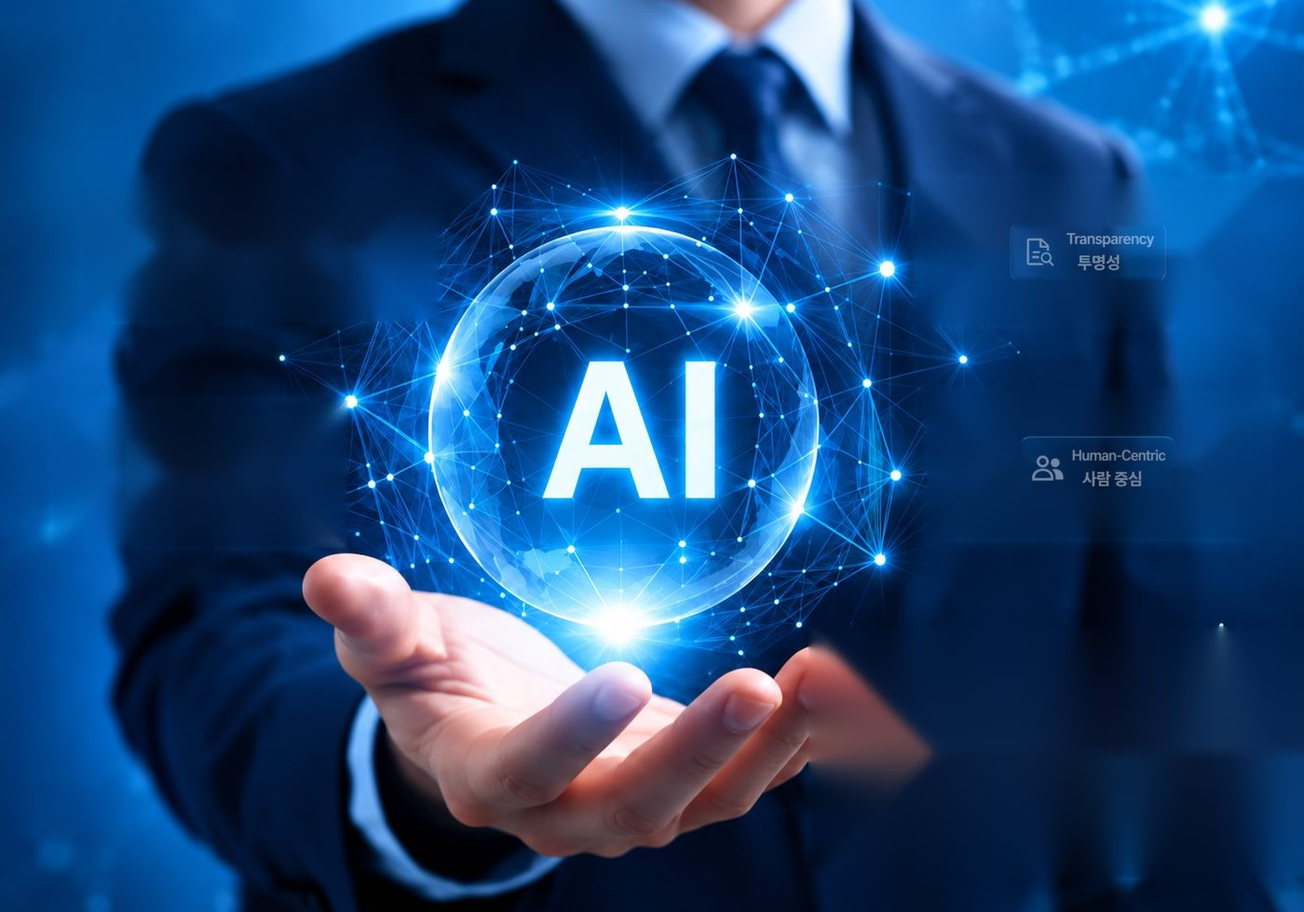
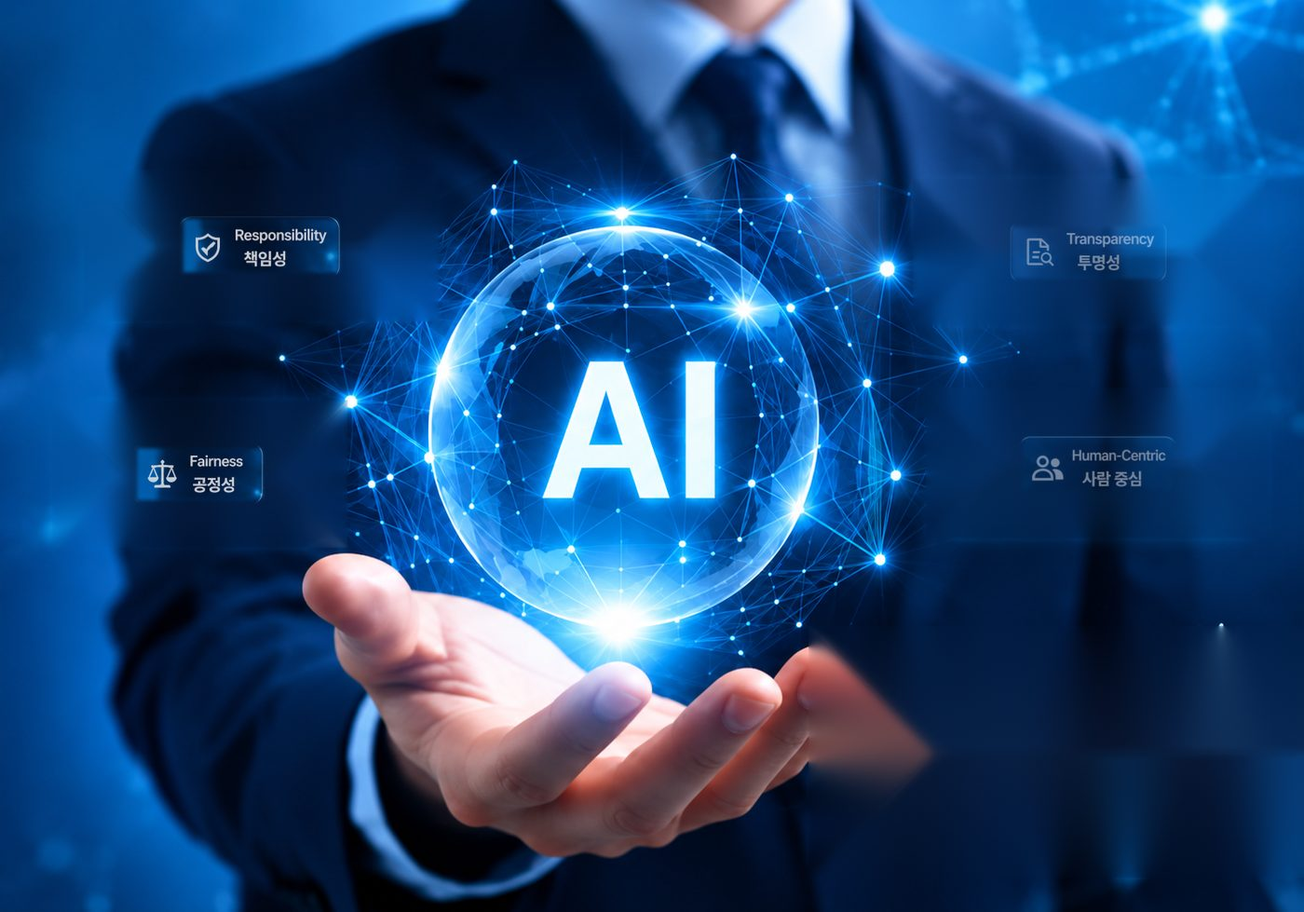
히어로 핵심가치 칩 원복: 이미지를 어제 원본(0739a9b) 그대로, HTML 칩·CSS 삭제 (사용자 지시: 위치·배경이 어색해 이전 버전으로)

Changed region(s): [[0.1229, 0.2451, 0.2764, 0.3064], [0.0921, 0.4903, 0.215, 0.5516]]

diff --git a/quiz/index.html b/quiz/index.html
@@ -31,7 +31,7 @@
 <link rel="stylesheet" as="style" crossorigin
   href="https://cdn.jsdelivr.net/gh/orioncactus/pretendard@v1.3.9/dist/web/variable/pretendardvariable-dynamic-subset.min.css">
 <link href="https://fonts.googleapis.com/css2?family=Archivo:wght@700;800&family=Caveat:wght@600&family=Noto+Serif+KR:wght@600;700;900&display=swap" rel="stylesheet">
-<link rel="stylesheet" href="/assets/css/style.css?v=4a512b798a">
+<link rel="stylesheet" href="/assets/css/style.css?v=f5e4e55637">
 <script>document.documentElement.className+=' js';</script>
 <script type="application/ld+json">
 {"@context": "https://schema.org", "@type": "BreadcrumbList", "itemListElement": [
@@ -196,7 +196,7 @@
       </div>
     </div>
   </footer>
-  <script src="/assets/js/main.js?v=4a512b798a"></script>
+  <script src="/assets/js/main.js?v=f5e4e55637"></script>
   <script>
   (function(){
     var Q=[{"t": "AI 활용 표기", "q": "생성형 AI로 초안을 쓴 보고서를 상사나 고객에게 제출하려 합니다.", "o": ["초안만 AI가 썼고 최종 문장은 직접 다듬었으므로 별도 표기는 하지 않는다", "AI를 썼다고 밝히면 평가가 불리해지므로 검증만 꼼꼼히 한다", "사실관계와 출처를 검증한 뒤, 조직 기준에 따라 AI 활용 범위를 표기한다"], "s": [1, 0, 2], "e": "결과물의 책임은 사람에게 있습니다. 검증과 표기는 한 쌍이며, 어느 한쪽만 해도 나중에 신뢰의 문제가 됩니다."}, {"t": "입력 정보 보호", "q": "회의록 요약을 위해 외부 AI 서비스에 회의 녹취 전체를 넣으려 합니다.", "o": ["조직이 승인한 도구인지 확인하고, 이름과 기밀, 개인정보를 지운 뒤 넣는다", "학습에 쓰지 않는다고 명시된 유료 요금제이므로 그대로 넣는다", "회사명과 참석자 직함만 가리고 나머지는 그대로 넣는다"], "s": [2, 0, 1], "e": "사고는 대부분 출력이 아니라 입력 단계에서 납니다. 약관의 학습 여부와 별개로, 무엇을 넣어도 되는지는 조직이 정해 두어야 합니다."}, {"t": "출처 검증", "q": "AI가 알려준 통계 수치를 보고서에 인용하려 합니다.", "o": ["AI가 출처 링크까지 제시했으므로 그 링크를 각주로 단다", "원 출처 문서를 직접 찾아 수치를 확인하고, 그 출처를 표기한다", "다른 AI에게 한 번 더 물어 같은 답이 나오면 인용한다"], "s": [0, 2, 1], "e": "생성형 AI는 그럴듯한 숫자와 존재하지 않는 출처를 함께 만들어냅니다. 교차 질문으로는 걸러지지 않고, 원문 확인만이 방법입니다."}, {"t": "저작권 · 초상권", "q": "AI 이미지 생성으로 홍보물을 만들려 합니다.", "o": ["상업적 이용이 허용된 서비스로 만들었으므로 그대로 쓴다", "실존 인물과 닮지 않았는지만 확인하면 된다", "약관이 주는 권리 범위와 인물 · 상표 유사성을 확인하고, 생성 이미지 표기 기준을 따른다"], "s": [1, 0, 2], "e": "서비스 약관이 허용하는 범위와 결과물이 다른 권리를 침해하는지는 별개의 문제입니다. 확인할 것이 하나가 아니라 셋입니다."}, {"t": "조직의 기준", "q": "팀원이 AI 활용을 알리지 않고 제출한 결과물에서 오류가 발견됐습니다.", "o": ["팀의 AI 활용 · 검증 기준을 문서로 만들어 공유하고, 제출 전 확인 절차를 둔다", "재발 방지를 위해 팀 내 AI 사용을 당분간 금지한다", "해당 팀원에게 주의를 주고 다음부터는 알리도록 한다"], "s": [2, 0, 1], "e": "금지는 알리지 않는 사용을 늘릴 뿐이고, 개인 주의는 다음 사람에게 반복됩니다. 기준을 만들어 공유하는 사람이 조직의 위험을 줄입니다."}, {"t": "공정성", "q": "AI 채용 평가 도구가 특정 집단에 불리한 결과를 내는 것으로 보입니다.", "o": ["집단별 합격선을 조정해 결과의 균형을 맞춘다", "편향 가능성을 점검하고 사람이 최종 판단하며, 판단 근거를 기록으로 남긴다", "도구 제공사에 문의하고 회신이 올 때까지 기존대로 운영한다"], "s": [1, 2, 0], "e": "결과만 손대면 원인은 그대로 남습니다. 사람의 최종 판단과 기록은 고영향 영역에서 특히 중요합니다."}, {"t": "AI기본법", "q": "2026년 1월 시행된 AI기본법, 우리 조직과 어떤 관계일까요?", "o": ["AI를 직접 개발하지 않으므로 우리 조직과는 관계가 없다", "AI를 활용하는 기업과 기관, 학교에도 표시 · 고지 같은 의무가 생긴다", "이름은 들어봤지만 우리 업무와 어떻게 연결되는지는 확인하지 못했다"], "s": [0, 2, 1], "e": "의무는 개발하는 쪽에만 생기지 않았습니다. 활용하는 조직에도 적용된다는 사실을 아는 것이 출발점입니다."}], R=[{"min": 12, "name": "AI 윤리 리더형", "lead": "이미 기준을 갖고 판단하고 있습니다.", "desc": "대부분의 장면에서 책임 있는 판단을 하고 있습니다. 이제 필요한 것은 그 판단력을 조직 밖에서도 인정받는 증명입니다. AI윤리전문가 양성과정은 지금의 감각을 한국AI윤리위원회 공식 이수증과 홈페이지 공식 등록로 남기고, 전문위원 등록과 전문강사·자문 활동으로 넓히는 가장 빠른 길입니다."}, {"min": 7, "name": "실무 감각형", "lead": "큰 방향은 맞지만, 상황마다 흔들리는 지점이 있습니다.", "desc": "판단의 방향은 옳은데 기준이 정리되어 있지 않아 장면마다 결과가 달라집니다. 체계적으로 한 번 정리하면 판단이 빨라지고, 그 기준을 이수증으로 남길 수 있습니다. AI윤리전문가 양성과정이 정확히 그 역할을 합니다."}, {"min": 0, "name": "출발선형", "lead": "AI를 활용하고는 있지만, 기준은 아직입니다.", "desc": "AI를 이미 업무와 학습에 활용하고 있다면 기준이 없는 상태가 가장 위험합니다. 반대로 말하면 지금이 가장 좋은 출발점입니다. 위원회 표준교재로 핵심 원칙과 안전 수칙부터 갖추고, 온라인 이수 평가로 증명하세요."}];

diff --git a/exam/index.html b/exam/index.html
@@ -31,7 +31,7 @@
 <link rel="stylesheet" as="style" crossorigin
   href="https://cdn.jsdelivr.net/gh/orioncactus/pretendard@v1.3.9/dist/web/variable/pretendardvariable-dynamic-subset.min.css">
 <link href="https://fonts.googleapis.com/css2?family=Archivo:wght@700;800&family=Caveat:wght@600&family=Noto+Serif+KR:wght@600;700;900&display=swap" rel="stylesheet">
-<link rel="stylesheet" href="/assets/css/style.css?v=4a512b798a">
+<link rel="stylesheet" href="/assets/css/style.css?v=f5e4e55637">
 <script>document.documentElement.className+=' js';</script>
 <script type="application/ld+json">
 {"@context": "https://schema.org", "@type": "BreadcrumbList", "itemListElement": [
@@ -39,7 +39,7 @@
     {"@type": "ListItem", "position": 2, "name": "평가응시", "item": "https://kaiec.kr/exam/"}
   ]}
 </script>
-<link rel="stylesheet" href="/assets/css/exam.css?v=4a512b798a">
+<link rel="stylesheet" href="/assets/css/exam.css?v=f5e4e55637">
 </head>
 <body>
   <header class="site-header">
@@ -203,9 +203,9 @@
       </div>
     </div>
   </footer>
-  <script src="/assets/js/main.js?v=4a512b798a"></script>
+  <script src="/assets/js/main.js?v=f5e4e55637"></script>
   <script>window.KAIEC_EXAM={api:"https://script.google.com/macros/s/AKfycbzgPS8uXz2Xqjfy4PxtFOIbBV31GqHwxYc4ZT12F8zrQkFKQAG0v96UGy8Yg2U2b4MYsQ/exec",windowDays:30,email:"contact@kaiec.kr",unified:true,payBasic:"https://skkc.co.kr/shop_view?idx=26",payAdv:"",materials:[{"no":"00","title":"이수 평가 응시 안내","meta":"13쪽 · 출제 기준표 · 7일 학습 플랜","icon":"clipboard-list","mb":0.2},{"no":"01","title":"『핵심이론』 표준교재","meta":"232쪽 · 9개 장 · 부록 4종","icon":"book-open","mb":82},{"no":"02","title":"실전 모의고사 2회분","meta":"31쪽 · 2회 × 40문항 · OMR 답안지","icon":"pen-line","mb":7.5},{"no":"03","title":"정답 및 해설 별책","meta":"20쪽 · 80문항 해설 · 근거 절 표시","icon":"file-check","mb":5.6},{"no":"04","title":"『실무 도구집』","meta":"76쪽 · 실무 양식 13종","icon":"file-text","mb":12.6}],courses:{"AI윤리전문가 양성과정":{total:40,minutes:60,point:2.5,passScore:70},"기본과정":{total:40,minutes:60,point:2.5,passScore:70},"심화과정":{total:50,minutes:75,point:2,passScore:70}}};</script>
   <script>window.KAIEC_EXAM_DEMO={"minutes":5,"questions":[{"n":1,"area":"II","areaName":"핵심 쟁점과 생성형 AI 활용 윤리","stem":"생성형 AI를 활용해 초안을 작성한 보고서를 고객사에 제출하려 합니다. 가장 적절한 조치는?","underline":[],"box":"","bogi":[],"options":["AI가 작성했으므로 별도 검토 없이 제출한다","인용과 수치의 출처를 검증하고, 조직 기준에 따라 AI 활용 여부를 표기한다","AI 활용 사실은 밝히지 않는 것이 안전하다","고객사가 묻기 전까지는 어떤 조치도 필요 없다"]},{"n":2,"area":"IV","areaName":"AI 윤리 위험 사례 분석","stem":"채용 서류를 자동으로 걸러 주는 AI를 도입하려 합니다. 도입 전에 반드시 점검해야 할 것은?","underline":[],"box":"","bogi":[],"options":["처리 속도가 충분히 빠른지","특정 성별·연령·출신에 불리하게 작동하는 편향이 없는지와 결정에 대한 설명 가능성","경쟁사도 같은 도구를 도입했는지","지원자에게 알리지 않아도 되는지"]},{"n":3,"area":"III","areaName":"국내외 AI 법제","stem":"2026년 1월 시행된 AI기본법에 대한 설명으로 옳은 것은?","underline":[],"box":"","bogi":[],"options":["AI를 개발하는 기업에만 적용된다","생성형 AI 산출물의 표시·고지 등 활용 단계의 의무도 포함한다","윤리 권고일 뿐 법적 의무는 없다","해외 기업과는 무관한 국내 지침이다"]},{"n":4,"area":"V","areaName":"거버넌스 · 영향평가 · 조직 실무","stem":"다음 사례에 대한 판단으로 옳지 않은 것은?","underline":["않은"],"box":"A기업은 고객 상담에 생성형 AI 챗봇을 도입하려 한다.\n상담 과정에서 고객의 이름·연락처·주문 내역이 함께 입력된다.\n담당자는 출시 일정을 이유로 별도 검토 없이 기본 설정을 그대로 적용하려 한다.","bogi":[],"options":["입력되는 개인정보의 수집·이용 범위를 먼저 확인해야 한다","고객에게 AI 챗봇과 대화하고 있다는 사실을 알리는 것이 바람직하다","출시 일정이 급하면 개인정보 검토는 출시 이후로 미루어도 된다","상담 내용을 AI 학습에 활용하려면 고지와 동의 절차를 먼저 검토해야 한다"]},{"n":5,"area":"II","areaName":"핵심 쟁점과 생성형 AI 활용 윤리","stem":"생성형 AI 산출물의 책임 있는 활용에 대한 설명으로 옳은 것만을 〈보기〉에서 있는 대로 고른 것은?","underline":[],"box":"","bogi":[{"k":"ㄱ","t":"AI가 제시한 통계와 인용은 원 출처를 확인한 뒤 사용한다."},{"k":"ㄴ","t":"AI가 만든 결과물에 대한 책임은 AI 서비스 제공자에게만 있다."},{"k":"ㄷ","t":"조직의 기준에 따라 AI 활용 사실을 표기한다."},{"k":"ㄹ","t":"개인정보나 기밀이 담긴 자료는 조직이 승인한 도구에서만 처리한다."}],"options":["ㄱ, ㄴ","ㄱ, ㄷ","ㄴ, ㄹ","ㄱ, ㄷ, ㄹ"]}],"key":[2,2,2,3,4]};</script>
-  <script src="/assets/js/exam.js?v=4a512b798a"></script>
+  <script src="/assets/js/exam.js?v=f5e4e55637"></script>
 </body>
 </html>

diff --git a/index.html b/index.html
@@ -31,7 +31,7 @@
 <link rel="stylesheet" as="style" crossorigin
   href="https://cdn.jsdelivr.net/gh/orioncactus/pretendard@v1.3.9/dist/web/variable/pretendardvariable-dynamic-subset.min.css">
 <link href="https://fonts.googleapis.com/css2?family=Archivo:wght@700;800&family=Caveat:wght@600&family=Noto+Serif+KR:wght@600;700;900&display=swap" rel="stylesheet">
-<link rel="stylesheet" href="/assets/css/style.css?v=4a512b798a">
+<link rel="stylesheet" href="/assets/css/style.css?v=f5e4e55637">
 <script>document.documentElement.className+=' js';</script>
 <link rel="preload" as="image" href="/assets/img/hero-ai.jpg" fetchpriority="high">
 <script type="application/ld+json">
@@ -138,12 +138,8 @@
         <p>AI 윤리 교육, 연구, 캠페인, AI윤리전문가 양성 및 국내외 협력 활동을 추진합니다.</p>
 
         <div class="ai-visual">
-            <img src="/assets/img/hero-ai.jpg" alt="AI를 손 위에 올린 모습. 한국AI윤리위원회의 AI 윤리 핵심가치 (투명성 · 사람 중심, 왼쪽에 책임성 · 공정성)">
+            <img src="/assets/img/hero-ai.jpg" alt="Responsible AI, Better Tomorrow. 한국AI윤리위원회의 AI 윤리 핵심가치 (책임성 · 투명성 · 공정성 · 사람 중심)">
           </div>
-          <ul class="ai-values" aria-label="AI 윤리 핵심가치 (책임성 · 공정성)">
-            <li class="v-resp"><svg xmlns="http://www.w3.org/2000/svg" width="24" height="24" viewBox="0 0 24 24" fill="none" stroke="currentColor" stroke-width="2" stroke-linecap="round" stroke-linejoin="round" aria-hidden="true"><path d="M20 13c0 5-3.5 7.5-7.66 8.95a1 1 0 0 1-.67-.01C7.5 20.5 4 18 4 13V6a1 1 0 0 1 1-1c2 0 4.5-1.2 6.24-2.72a1.17 1.17 0 0 1 1.52 0C14.51 3.81 17 5 19 5a1 1 0 0 1 1 1z" /> <path d="m9 12 2 2 4-4" /></svg><span><small>Responsibility</small><b>책임성</b></span></li>
-            <li class="v-fair"><svg xmlns="http://www.w3.org/2000/svg" width="24" height="24" viewBox="0 0 24 24" fill="none" stroke="currentColor" stroke-width="2" stroke-linecap="round" stroke-linejoin="round" aria-hidden="true"><path d="M12 3v18" /> <path d="m19 8 3 8a5 5 0 0 1-6 0zV7" /> <path d="M3 7h1a17 17 0 0 0 8-2 17 17 0 0 0 8 2h1" /> <path d="m5 8 3 8a5 5 0 0 1-6 0zV7" /> <path d="M7 21h10" /></svg><span><small>Fairness</small><b>공정성</b></span></li>
-          </ul>
 
           <div class="hero-bottom">
           <div class="hero-ctas">
@@ -515,6 +511,6 @@
       </div>
     </div>
   </footer>
-  <script src="/assets/js/main.js?v=4a512b798a"></script>
+  <script src="/assets/js/main.js?v=f5e4e55637"></script>
 </body>
 </html>

diff --git a/assets/css/style.css b/assets/css/style.css
@@ -702,21 +702,7 @@ table.tbl tr:hover td{background:#FCFDFF}
   background:linear-gradient(90deg,rgba(8,17,36,.92) 6%,rgba(8,17,36,.62) 32%,rgba(9,20,42,.34) 48%,rgba(10,22,40,0) 64%),
              rgba(10,22,40,.10)}
 .hero-inner > *:not(.ai-visual){position:relative;z-index:1}
-/* AI 윤리 핵심가치 칩 (2026.09.22): 오른쪽 두 칩(투명성 · 사람 중심)은 히어로 이미지에 원래 박힌 그대로 두고,
-   이미지 왼쪽에 있어 마스크·오버레이·제목에 가려 흐리던 책임성 · 공정성 두 칩만 이미지에서 지운 뒤 HTML 로 같은 자리에 다시 그림.
-   오른쪽 칩과 같은 크기 · 같은 투명도로 맞춤(렌더 화면 측정: 오른쪽 칩 글자 최고 밝기 115~135/255 → 흰 글자 50%대, 테두리 10%). .ai-visual 과 같은 틀 안에서 % 로 배치 */
-.hero-inner > .ai-values{position:absolute;top:0;bottom:0;right:calc(50% - 50vw);width:min(60vw,780px);margin:0;padding:0;list-style:none;z-index:1;pointer-events:none}
-.ai-values li{position:absolute;display:flex;align-items:center;gap:6px;padding:4px 9px 4px 7px;border-radius:7px;
-  background:rgba(255,255,255,.035);border:1px solid rgba(255,255,255,.10);backdrop-filter:blur(4px);-webkit-backdrop-filter:blur(4px);
-  color:#fff;white-space:nowrap}
-.ai-values .v-resp{left:13.5%;top:20%}
-.ai-values .v-fair{left:14.5%;top:61%}
-.ai-values li svg{width:15px;height:15px;color:rgba(255,255,255,.44);flex-shrink:0}
-.ai-values li span{display:flex;flex-direction:column;line-height:1.15}
-.ai-values li small{font-size:9px;font-weight:500;letter-spacing:.02em;color:rgba(255,255,255,.46)}
-.ai-values li b{font-size:11px;font-weight:600;letter-spacing:-.01em;color:rgba(255,255,255,.56);margin-top:1px}
-/* 1400px 아래에서는 왼쪽 칩이 제목 글줄과 겹치므로 숨김(오른쪽 두 칩은 이미지에 있어 그대로) */
-@media (max-width:1400px){.hero-inner > .ai-values{display:none}}
+/* 핵심가치 칩(책임성·투명성·공정성·사람 중심)은 히어로 이미지(hero-ai.jpg)에 원래 박힌 그대로 사용 (2026.09.23 원복, HTML 칩 없음) */
 .ai-net{position:absolute;inset:0;width:100%;height:100%;opacity:.55}
 .ai-ring{position:absolute;left:50%;top:50%;border-radius:50%;border:1px dashed rgba(159,196,255,.30);transform:translate(-50%,-50%)}
 .ai-ring-1{width:198px;height:198px;animation:aiSpin 36s linear infinite}

diff --git a/about/index.html b/about/index.html
@@ -31,7 +31,7 @@
 <link rel="stylesheet" as="style" crossorigin
   href="https://cdn.jsdelivr.net/gh/orioncactus/pretendard@v1.3.9/dist/web/variable/pretendardvariable-dynamic-subset.min.css">
 <link href="https://fonts.googleapis.com/css2?family=Archivo:wght@700;800&family=Caveat:wght@600&family=Noto+Serif+KR:wght@600;700;900&display=swap" rel="stylesheet">
-<link rel="stylesheet" href="/assets/css/style.css?v=4a512b798a">
+<link rel="stylesheet" href="/assets/css/style.css?v=f5e4e55637">
 <script>document.documentElement.className+=' js';</script>
 <script type="application/ld+json">
 {"@context": "https://schema.org", "@type": "BreadcrumbList", "itemListElement": [
@@ -352,9 +352,9 @@
       </div>
     </div>
   </footer>
-  <script src="/assets/js/main.js?v=4a512b798a"></script>
-  <script src="/assets/js/history-data.js?v=4a512b798a"></script>
-  <script src="/assets/js/members-data.js?v=4a512b798a"></script>
+  <script src="/assets/js/main.js?v=f5e4e55637"></script>
+  <script src="/assets/js/history-data.js?v=f5e4e55637"></script>
+  <script src="/assets/js/members-data.js?v=f5e4e55637"></script>
   <script>
   (function(){
     var box=document.getElementById('historyList');

diff --git a/lecture/index.html b/lecture/index.html
@@ -31,7 +31,7 @@
 <link rel="stylesheet" as="style" crossorigin
   href="https://cdn.jsdelivr.net/gh/orioncactus/pretendard@v1.3.9/dist/web/variable/pretendardvariable-dynamic-subset.min.css">
 <link href="https://fonts.googleapis.com/css2?family=Archivo:wght@700;800&family=Caveat:wght@600&family=Noto+Serif+KR:wght@600;700;900&display=swap" rel="stylesheet">
-<link rel="stylesheet" href="/assets/css/style.css?v=4a512b798a">
+<link rel="stylesheet" href="/assets/css/style.css?v=f5e4e55637">
 <script>document.documentElement.className+=' js';</script>
 <script type="application/ld+json">
 {"@context": "https://schema.org", "@type": "BreadcrumbList", "itemListElement": [
@@ -564,8 +564,8 @@
       </div>
     </div>
   </footer>
-  <script src="/assets/js/main.js?v=4a512b798a"></script>
-  <script src="/assets/js/members-data.js?v=4a512b798a"></script>
+  <script src="/assets/js/main.js?v=f5e4e55637"></script>
+  <script src="/assets/js/members-data.js?v=f5e4e55637"></script>
   <script>
   /* 자문 위원단: 조직·위원 데이터의 '전문위원'을 자동으로 표시합니다 */
   (function(){

diff --git a/members/index.html b/members/index.html
@@ -31,7 +31,7 @@
 <link rel="stylesheet" as="style" crossorigin
   href="https://cdn.jsdelivr.net/gh/orioncactus/pretendard@v1.3.9/dist/web/variable/pretendardvariable-dynamic-subset.min.css">
 <link href="https://fonts.googleapis.com/css2?family=Archivo:wght@700;800&family=Caveat:wght@600&family=Noto+Serif+KR:wght@600;700;900&display=swap" rel="stylesheet">
-<link rel="stylesheet" href="/assets/css/style.css?v=4a512b798a">
+<link rel="stylesheet" href="/assets/css/style.css?v=f5e4e55637">
 <script>document.documentElement.className+=' js';</script>
 <script type="application/ld+json">
 {"@context": "https://schema.org", "@type": "BreadcrumbList", "itemListElement": [
@@ -327,8 +327,8 @@
       </div>
     </div>
   </footer>
-  <script src="/assets/js/main.js?v=4a512b798a"></script>
-  <script src="/assets/js/members-data.js?v=4a512b798a"></script>
+  <script src="/assets/js/main.js?v=f5e4e55637"></script>
+  <script src="/assets/js/members-data.js?v=f5e4e55637"></script>
   <script>
   (function(){
     var box=document.getElementById('memberSections');

diff --git a/mou/index.html b/mou/index.html
@@ -31,7 +31,7 @@
 <link rel="stylesheet" as="style" crossorigin
   href="https://cdn.jsdelivr.net/gh/orioncactus/pretendard@v1.3.9/dist/web/variable/pretendardvariable-dynamic-subset.min.css">
 <link href="https://fonts.googleapis.com/css2?family=Archivo:wght@700;800&family=Caveat:wght@600&family=Noto+Serif+KR:wght@600;700;900&display=swap" rel="stylesheet">
-<link rel="stylesheet" href="/assets/css/style.css?v=4a512b798a">
+<link rel="stylesheet" href="/assets/css/style.css?v=f5e4e55637">
 <script>document.documentElement.className+=' js';</script>
 <script type="application/ld+json">
 {"@context": "https://schema.org", "@type": "BreadcrumbList", "itemListElement": [
@@ -440,8 +440,8 @@
       </div>
     </div>
   </footer>
-  <script src="/assets/js/main.js?v=4a512b798a"></script>
-  <script src="/assets/js/partners-data.js?v=4a512b798a"></script>
+  <script src="/assets/js/main.js?v=f5e4e55637"></script>
+  <script src="/assets/js/partners-data.js?v=f5e4e55637"></script>
   <script>
   (function(){
     var box=document.getElementById('partnerLogos');

diff --git a/experts/index.html b/experts/index.html
@@ -31,7 +31,7 @@
 <link rel="stylesheet" as="style" crossorigin
   href="https://cdn.jsdelivr.net/gh/orioncactus/pretendard@v1.3.9/dist/web/variable/pretendardvariable-dynamic-subset.min.css">
 <link href="https://fonts.googleapis.com/css2?family=Archivo:wght@700;800&family=Caveat:wght@600&family=Noto+Serif+KR:wght@600;700;900&display=swap" rel="stylesheet">
-<link rel="stylesheet" href="/assets/css/style.css?v=4a512b798a">
+<link rel="stylesheet" href="/assets/css/style.css?v=f5e4e55637">
 <script>document.documentElement.className+=' js';</script>
 <script type="application/ld+json">
 {"@context": "https://schema.org", "@type": "BreadcrumbList", "itemListElement": [
@@ -349,8 +349,8 @@
       </div>
     </div>
   </footer>
-  <script src="/assets/js/main.js?v=4a512b798a"></script>
-  <script src="/assets/js/experts-data.js?v=4a512b798a"></script>
+  <script src="/assets/js/main.js?v=f5e4e55637"></script>
+  <script src="/assets/js/experts-data.js?v=f5e4e55637"></script>
   <script>
   (function(){
     var list=window.KAIEC_EXPERTS||[];

diff --git a/apply/index.html b/apply/index.html
@@ -31,7 +31,7 @@
 <link rel="stylesheet" as="style" crossorigin
   href="https://cdn.jsdelivr.net/gh/orioncactus/pretendard@v1.3.9/dist/web/variable/pretendardvariable-dynamic-subset.min.css">
 <link href="https://fonts.googleapis.com/css2?family=Archivo:wght@700;800&family=Caveat:wght@600&family=Noto+Serif+KR:wght@600;700;900&display=swap" rel="stylesheet">
-<link rel="stylesheet" href="/assets/css/style.css?v=4a512b798a">
+<link rel="stylesheet" href="/assets/css/style.css?v=f5e4e55637">
 <script>document.documentElement.className+=' js';</script>
 <script type="application/ld+json">
 {"@context": "https://schema.org", "@type": "BreadcrumbList", "itemListElement": [
@@ -349,7 +349,7 @@
       </div>
     </div>
   </footer>
-  <script src="/assets/js/main.js?v=4a512b798a"></script>
+  <script src="/assets/js/main.js?v=f5e4e55637"></script>
   <script>
   /* 상단 버튼: 해당 섹션으로 부드럽게 이동 (#individual, #member 딥링크 지원) */
   (function(){

diff --git a/news/index.html b/news/index.html
@@ -31,7 +31,7 @@
 <link rel="stylesheet" as="style" crossorigin
   href="https://cdn.jsdelivr.net/gh/orioncactus/pretendard@v1.3.9/dist/web/variable/pretendardvariable-dynamic-subset.min.css">
 <link href="https://fonts.googleapis.com/css2?family=Archivo:wght@700;800&family=Caveat:wght@600&family=Noto+Serif+KR:wght@600;700;900&display=swap" rel="stylesheet">
-<link rel="stylesheet" href="/assets/css/style.css?v=4a512b798a">
+<link rel="stylesheet" href="/assets/css/style.css?v=f5e4e55637">
 <script>document.documentElement.className+=' js';</script>
 <script type="application/ld+json">
 {"@context": "https://schema.org", "@type": "BreadcrumbList", "itemListElement": [
@@ -443,7 +443,7 @@
       </div>
     </div>
   </footer>
-  <script src="/assets/js/main.js?v=4a512b798a"></script>
+  <script src="/assets/js/main.js?v=f5e4e55637"></script>
   <script>
   /* 분류 필터: 게시글 자체는 정적 HTML이라 검색엔진이 전부 읽습니다 */
   (function(){

diff --git a/expert/index.html b/expert/index.html
@@ -31,7 +31,7 @@
 <link rel="stylesheet" as="style" crossorigin
   href="https://cdn.jsdelivr.net/gh/orioncactus/pretendard@v1.3.9/dist/web/variable/pretendardvariable-dynamic-subset.min.css">
 <link href="https://fonts.googleapis.com/css2?family=Archivo:wght@700;800&family=Caveat:wght@600&family=Noto+Serif+KR:wght@600;700;900&display=swap" rel="stylesheet">
-<link rel="stylesheet" href="/assets/css/style.css?v=4a512b798a">
+<link rel="stylesheet" href="/assets/css/style.css?v=f5e4e55637">
 <script>document.documentElement.className+=' js';</script>
 <script type="application/ld+json">
 {"@context": "https://schema.org", "@type": "BreadcrumbList", "itemListElement": [
@@ -692,7 +692,7 @@
       </div>
     </div>
   </footer>
-  <script src="/assets/js/main.js?v=4a512b798a"></script>
+  <script src="/assets/js/main.js?v=f5e4e55637"></script>
   <script>
   (function(){
     document.querySelectorAll('.sq').forEach(function(q){
